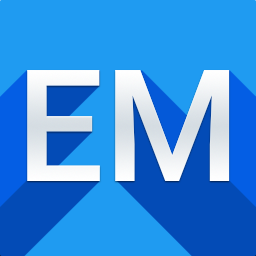
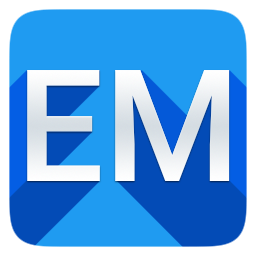
styling

Changed region(s): [[0.0, 0.0, 1.0, 1.0]]

diff --git a/index.html b/index.html
@@ -1,10 +1,11 @@
 <!DOCTYPE html>
 <html lang="en">
 <head>
-  <title>EMBIGGEN</title>
+  <title>BIGGEN</title>
   <meta name="viewport" content="width=device-width, user-scalable=no" />
   <link rel="stylesheet" type="text/css" href="styles.css" media="screen" />
   <link rel="manifest" href="manifest.json" />
+  <link rel="shortcut icon" href="icon-64.png" sizes="64x64" />
   <script>
 'use strict';
 
@@ -32,7 +33,7 @@ if ('serviceWorker' in navigator) {
   <hr />
   <footer>
     <p>
-      <strong>Embiggen</strong>, an offline-ready <a href="https://google.com/search?q=progressive+web+app" target="_blank">Progressive Web App</a> for making text big
+      <strong>Biggen</strong>, an offline-ready <a href="https://google.com/search?q=progressive+web+app" target="_blank">Progressive Web App</a> for making text big
     </p>
     <p>
       with &lt;3 by <a href="https://twitter.com/samthor" target="_blank">@samthor</a>

diff --git a/styles.css b/styles.css
@@ -6,7 +6,8 @@ html {
   background: #0f4a73;
   color: white;
   min-height: 100vmin;
-  font-family: 'Roboto', 'Arial', Sans-Serif;
+  /* TODO: include Roboto via Web Fonts */
+  font-family: 'Roboto', 'Helvetica Neue', 'Gill Sans', 'Arial', Sans-Serif;
 }
 
 html.enabled {
